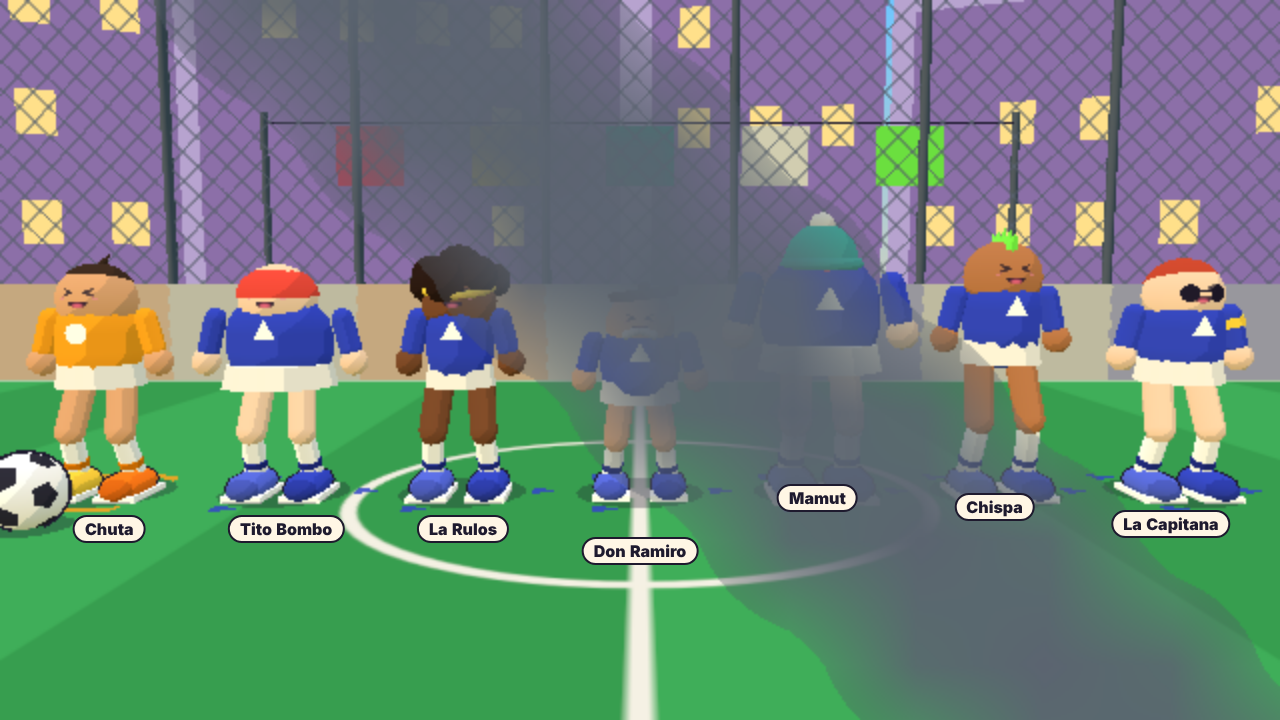
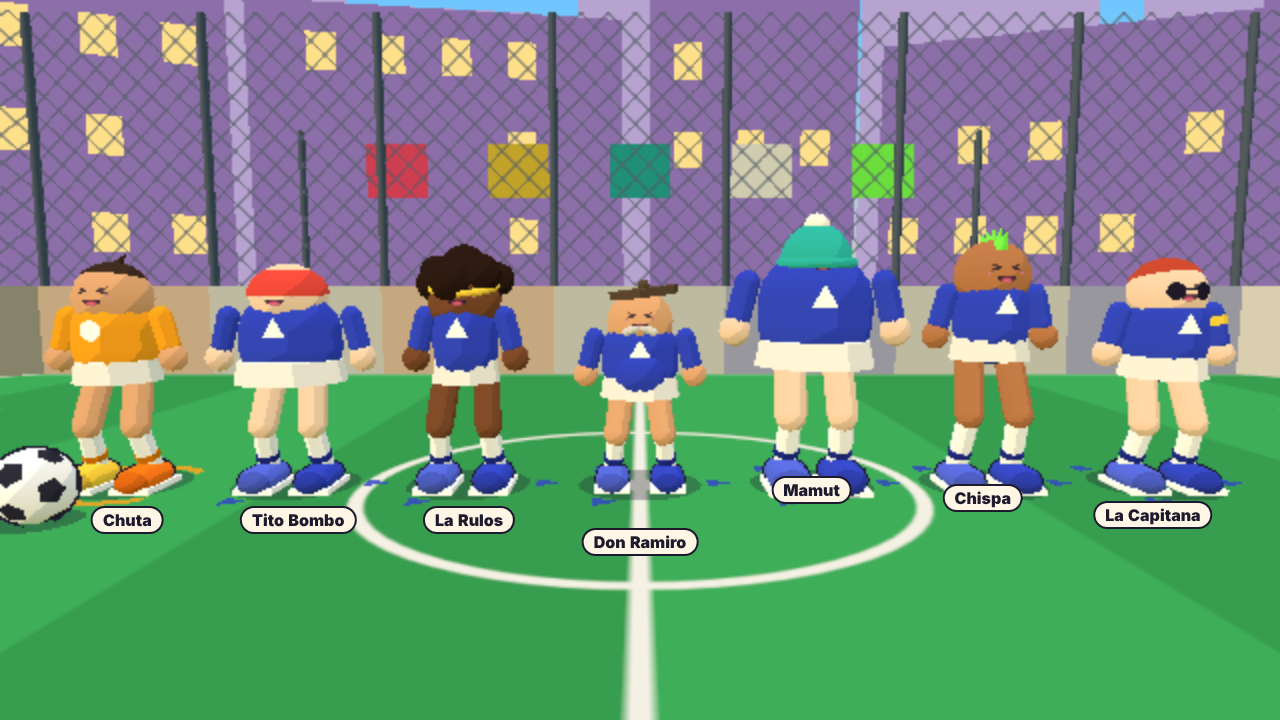
fix: figures camera inside the cage (net was drawn as a grey cloud)
Claude-Session: https://claude.ai/code/session_01YAR1suQLKyqQC9EJfVYYCE

diff --git a/prototypes/patadon/js/view.js b/prototypes/patadon/js/view.js
@@ -618,7 +618,7 @@
         const L2 = K.pitch_length / 2 + 2, W2 = K.pitch_width / 2 + 2; px = clamp(px, -L2, L2); pz = clamp(pz, -W2, W2);
       }
     } else if (mode === 'figures') {
-      px = 0; py = 1.25; pz = 5.2; lx = 0; ly = 0.72; lz = 0; fov = 40;
+      px = 0; py = 1.2; pz = 4.6; lx = 0; ly = 0.7; lz = 0; fov = 46;
       cs.px = px; cs.py = py; cs.pz = pz; cs.lx = lx; cs.ly = ly; cs.lz = lz;
     } else { // broadcast: the touchline camera, for the title and results
       const b = w.ball;
@@ -721,5 +721,5 @@
   function worldToScreen(x, y, z) { _v.set(x, y, z).project(camera); return { x: (_v.x + 1) / 2 * innerWidth, y: (1 - _v.y) / 2 * innerHeight, behind: _v.z > 1 }; }
   function render() { if (renderer) renderer.render(scene, camera); }
 
-  window.View = { init, resize, setCast, sync, render, showFigures, screenOf, worldToScreen, ROSTER, TEAM, get ok() { return !!renderer; } };
+  window.View = { get _scene() { return scene; }, init, resize, setCast, sync, render, showFigures, screenOf, worldToScreen, ROSTER, TEAM, get ok() { return !!renderer; } };
 })();
